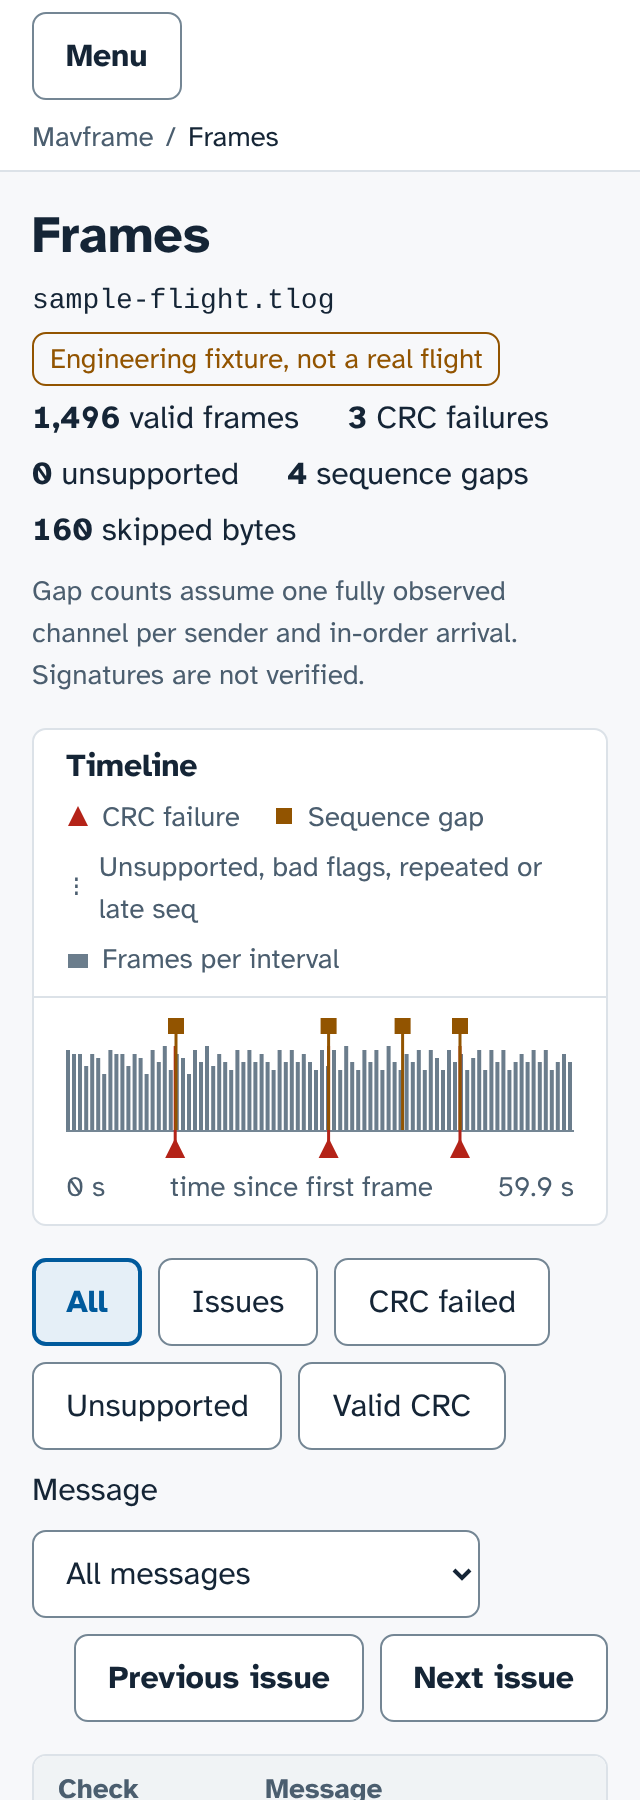
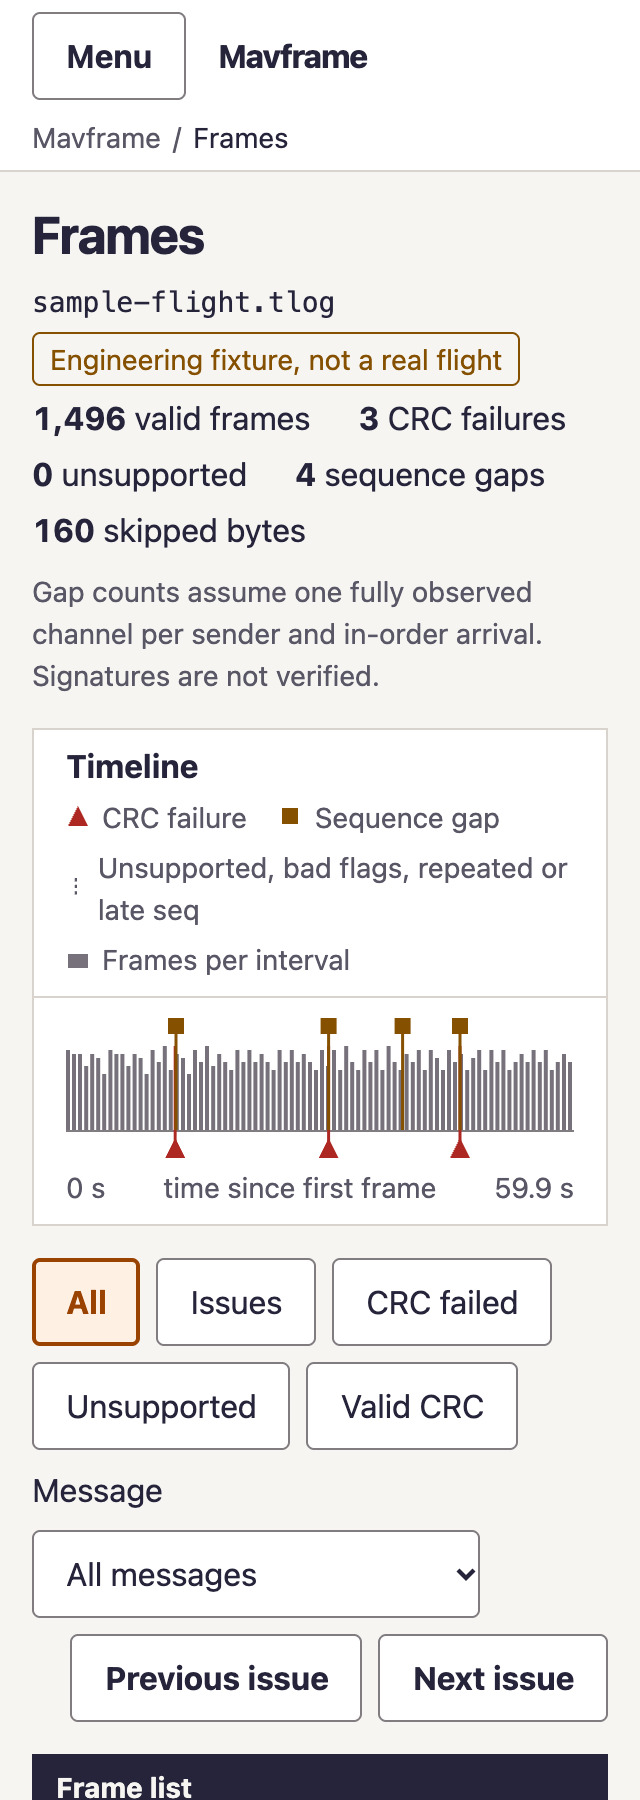
Refresh README captures for the accepted app design

diff --git a/README.md b/README.md
@@ -307,7 +307,7 @@ Neither parser reported a frame that was not written to the stream.
 ./build/test_mavframe          # prints "967 checks, 0 failures"
 python3 -m pytest tests -v     # 17 passed (differential, command line, version)
 node --test tests/web/test_wasm.mjs   # 18 passed (WebAssembly build, see Browser inspector)
-node --test tests/web/test_finding.mjs tests/web/test_routes.mjs tests/web/test_ui.mjs   # 47 passed, 1 skipped (screenshots): 5 + 24 + 18 (Chromium, Playwright, axe-core)
+node --test tests/web/test_finding.mjs tests/web/test_routes.mjs tests/web/test_ui.mjs   # 50 passed, 1 skipped (screenshots): 7 + 25 + 18 (Chromium, Playwright, axe-core)
 ```
 
 The C tests cover: CRC known answer (0x6F91 for "123456789"), zero-length and
